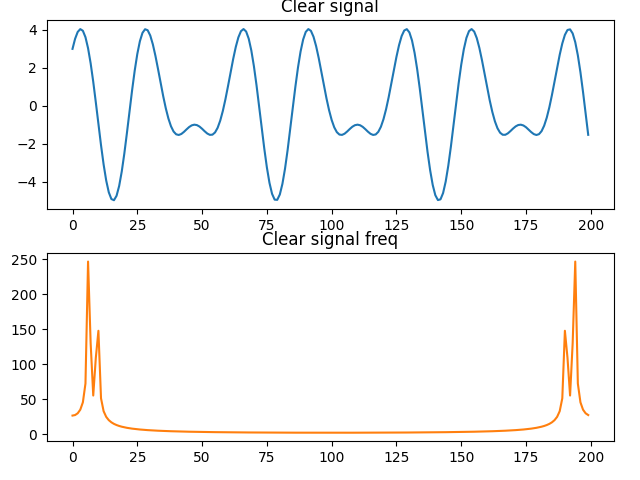
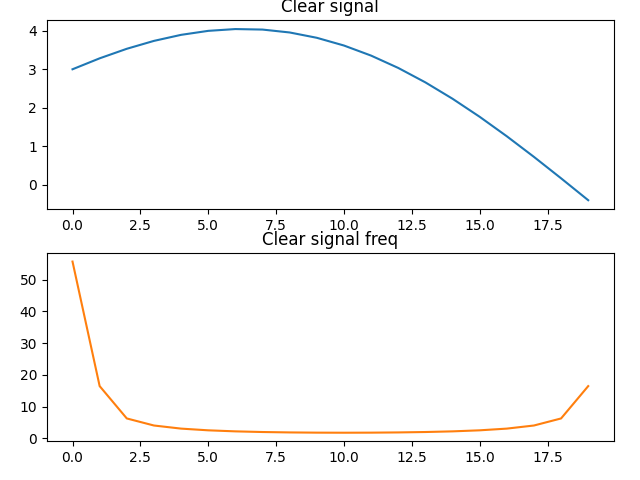
in progress filter-dev

diff --git a/list7/signal/display.py b/list7/signal/display.py
@@ -1,22 +1,58 @@
-from generate import CreateSignal
+from generate import CreateSignal, Signal
 from filter import Filter
 import numpy as np
 import matplotlib.pyplot as plt
 
 
-def clear_plot(data):
+def clear_plot(signal: Signal):
     fig, axs = plt.subplots(2)
     fig.tight_layout()
 
     # p = Signal(A, a, B, b)
     # print(str(p))
     # data, _ = p.generate_array()
-    axs[0].plot(data)
+    axs[0].plot(*signal.generate())
     axs[0].title.set_text("Clear signal")
 
-    axs[1].plot(np.abs(np.fft.fft(data)), color="tab:orange")
+    t, _ = signal.generate()
+    print(t[1]-t[0])
+    print(len(t))
+    print(t[-1])
+
+    freq_domain, freq_data = signal.make_fft()
+    length = len(freq_domain)
+
+    freq_domain, freq_data = freq_domain, np.abs(freq_data)/length
+
+    # freq_domain, freq_data = freq_domain[0:int((length/2) + 1)], 2*freq_data[0:int((length/2) + 1)]
+
+    axs[1].plot(freq_domain, freq_data, color="tab:orange")
     axs[1].title.set_text("Clear signal freq")
-    plt.savefig("test.png")
+    # plt.savefig("test.png")
+    plt.show()
+# ###################################################################################################################
+    # fig, axs = plt.subplots(2)
+    # fig.tight_layout()
+
+    # axs[0].plot(freq_domain, freq_data)
+    # axs[0].title.set_text("Freq before")
+
+    # f, _ = signal.make_fft()
+    # print(f[1]-f[0])
+    # print(len(f))
+    # print(f[-1])
+
+    # freq_domain, freq_data = signal.make_fft()
+    # length = len(freq_domain)
+
+    # freq_domain, freq_data = freq_domain, np.abs(freq_data)/length
+
+    # freq_domain, freq_data = freq_domain[0:int((length/2) + 1)], 2*freq_data[0:int((length/2) + 1)]
+
+    # axs[1].plot(freq_domain, freq_data, color="tab:orange")
+    # axs[1].title.set_text("Freq after")
+    # # plt.savefig("test.png")
+    # plt.show()
 
 
 def filtered_plot(data):
@@ -32,12 +68,14 @@ def filtered_plot(data):
 
 
 if __name__ == "__main__":
-    p = CreateSignal()
-    data, _ = p.generate_array()
-    clear_plot(data)
-    to_remove = list(range(26))
-    # to_remove = np.arange(0, 20, 0.1)[:25]
-    filter = Filter()
-    filter.signal = data
-    filter.out(to_remove)
-    filtered_plot(filter.signal)
+    # creator = CreateSignal([2], [3], [3], [2])
+    creator = CreateSignal([1, 4], [2, 6], [0], [0])
+    print(str(creator))
+    p = creator.create()
+    clear_plot(p)
+    # to_remove = list(range(26))
+    # # to_remove = np.arange(0, 20, 0.1)[:25]
+    # filter = Filter()
+    # filter.signal = data
+    # filter.out(to_remove)
+    # filtered_plot(filter.signal)

diff --git a/list7/test.py b/list7/test.py
@@ -95,19 +95,77 @@ import numpy as np
 import matplotlib.pyplot as plt
 
 # Number of samplepoints
-N = 100
+N = 200
 # sample spacing
 T = 1.0 / 800.0
 x = np.linspace(0.0, N*T, N)
 # y = np.sin(50.0 * 2.0*np.pi*x) + 0.5*np.sin(80.0 * 2.0*np.pi*x)
 # y = 2*np.sin(2*35*np.pi*x) + np.sin(2*20*np.pi*x) + np.sin(2*15*np.pi*x)
-y = np.cos(x)
-yf = np.fft.fft(y)
+# y = np.cos(x)
+y = 1*np.sin(2*np.pi*x) + 0*np.cos(0*x) + 4*np.sin(6*np.pi*x)
+plt.plot(x, y)
+plt.show()
+yf = np.fft.rfft(y)
 # xf = np.linspace(0.0, 1.0/(2.0*T), N//2)
-xf = np.fft.fftfreq(N, T)
+xf = np.fft.rfftfreq(N, T)
 
 fig, ax = plt.subplots()
 # ax.plot(xf[:N//2], np.abs(yf[:N//2]))
 ax.plot(xf, np.abs(yf))
 
+plt.show()
+
+# ######################################################################################################################3
+
+# Fs = 2000
+# tstep = 1 / Fs
+
+# f0 = 100
+
+# N = int(10*Fs/f0)
+
+# t = np.linspace(0, (N-1)*tstep, N)
+# fstep = Fs/N
+# f = np.linspace(0, (N-1)*fstep, N)
+
+# y = 1*np.sin(2*np.pi*f0*t) + 4 * np.sin(2*np.pi*3*f0*t)
+
+# X = np.fft.fft(y)
+
+# X_mag = np.abs(X)/N
+
+# f_plot = f[0:int(N/2+1)]
+# X_mag_plot = 2*X_mag[0:int(N/2+1)]
+
+# X_mag_plot[0] = X_mag_plot[0] / 2
+
+# fig, [ax1, ax2] = plt.subplots(nrows=2, ncols=1)
+# ax1.plot(t, y, '.-')
+# ax2.plot(f_plot, X_mag_plot, '.-')
+# plt.show()
+
+Fs = 2000
+tstep = 1 / Fs
+
+N = 128
+
+t = np.linspace(0, tstep, N)
+fstep = Fs/N
+f = np.linspace(0, (N-1)*fstep, N)
+
+y = 1*np.sin(2*np.pi*t) + 4 * np.sin(2*np.pi*3*t)
+y = 2*np.sin(2*np.pi*35*t) + np.sin(2*np.pi*20*t) + np.sin(2*np.pi*15*t)
+
+X = np.fft.fft(y)
+
+X_mag = np.abs(X)/N
+
+f_plot = f[0:int(N/2+1)]
+X_mag_plot = 2*X_mag[0:int(N/2+1)]
+
+X_mag_plot[0] = X_mag_plot[0] / 2
+
+fig, [ax1, ax2] = plt.subplots(nrows=2, ncols=1)
+ax1.plot(t, y, '.-')
+ax2.plot(f_plot, X_mag_plot, '.-')
 plt.show()

diff --git a/list7/signal/generate.py b/list7/signal/generate.py
@@ -10,14 +10,16 @@ class Signal():
         self._sampling_freq = sampling_freq
         self._signal_freq = signal_freq
         self._time_interval = 1/self._sampling_freq
-        self.number_of_samples = int(self._sampling_freq//self._signal_freq)
+        self.number_of_samples = int(10*self._sampling_freq//self._signal_freq)
         self._freq_interval = self._sampling_freq / self.number_of_samples
         self._time_domain = np.linspace(0,
-                                        (self.number_of_sample - 1)*self._time_interval,
-                                        self.number_of_samples)
-        self._freq_domain = np.linspace(0,
-                                        (self.number_of_sample - 1)*self._freq_interval,
-                                        self.number_of_samples)
+                                        (self.number_of_samples - 1)*self._time_interval,
+                                        self.number_of_samples) # use
+        # self._freq_domain = np.linspace(0,
+        #                                 (self.number_of_samples - 1)*self._freq_interval,
+        #                                 self.number_of_samples)
+        self._freq_domain = np.fft.rfftfreq(self.number_of_samples, self._freq_interval) # use
+        # self._freq_domain = np.fft.fftfreq(self.number_of_samples, self._freq_interval)
         self.signal = np.empty(self._time_domain.size)
         self.transform = np.empty(self._freq_domain.size)
 
@@ -26,7 +28,8 @@ class Signal():
         return self._time_domain, self.signal
 
     def make_fft(self):
-        self.transform = np.fft.fft(self.signal)
+        # self.transform = np.fft.fft(self.signal)
+        self.transform = np.fft.rfft(self.signal)
         return self._freq_domain, self.transform
 
 

diff --git a/list7/signal/filter.py b/list7/signal/filter.py
@@ -9,6 +9,7 @@ class Filter():
         self._signal_fft = None
         self._time_domain = None
         self._freq_domain = None
+        self.filtered = False
 
     @property
     def signal(self):
@@ -16,6 +17,8 @@ class Filter():
 
     @signal.setter
     def signal(self, new_value: Signal):
+        if self.filtered:
+            raise Exception("Cannot change the Signal")
         self._signal = new_value
         self._time_domain, self._signal_values = self._signal.generate()
         self._freq_domain, self._signal_fft = self._signal.make_fft()
@@ -29,4 +32,7 @@ class Filter():
         for i in range(len(self._freq_domain)):
             if self._freq_domain[i] in frequencies:
                 mask.append(i)
-        np.put(self._signal_values, mask, 0.0)
+        np.put(self._signal_fft, mask, 0.0)
+        self._signal_values = np.fft.ifft(self._signal_fft)
+        self.filtered = True
+        return (self._freq_domain, self._signal_fft), ()
